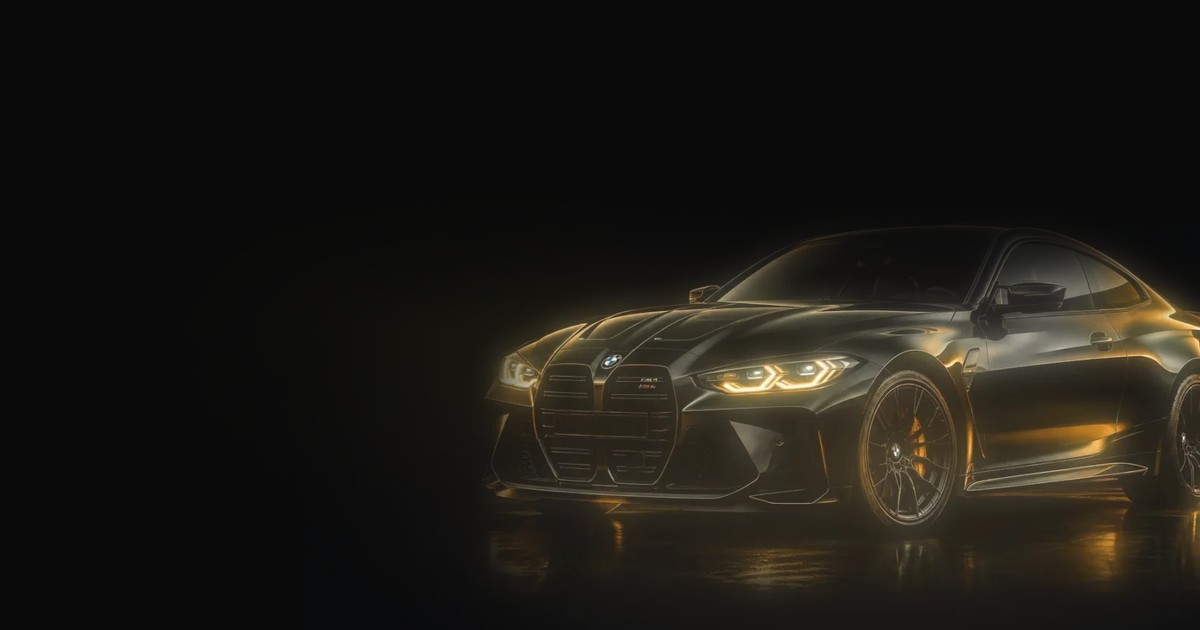
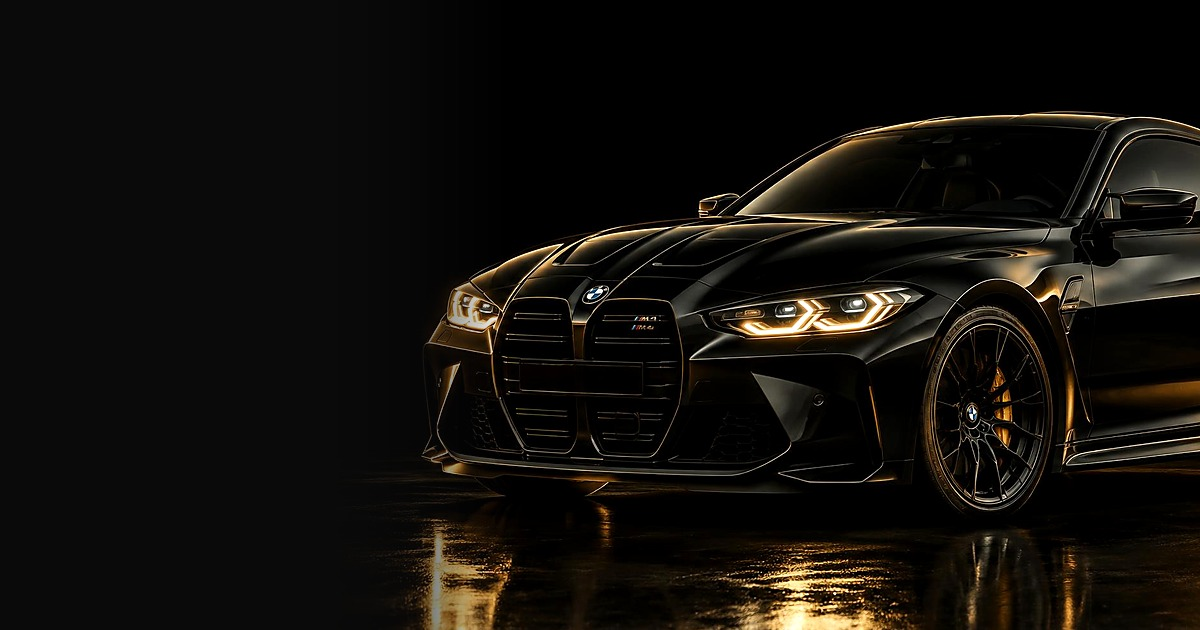
feat(seo): bolder link preview, bigger sharper car, less text
The car now fills the right two thirds at higher resolution (sharpened),
the left holds a large CAR / VISION wordmark with one small tracked
tagline line. Product previews use the same wordmark in a narrower column.
Preview URL version bumped to ?v=3 so cached previews refresh.

diff --git a/src/app/[locale]/opengraph-image.tsx b/src/app/[locale]/opengraph-image.tsx
@@ -9,16 +9,13 @@ export const contentType = 'image/png';
 
 /**
  * Link preview for Telegram, WhatsApp, Instagram, X, Facebook, LinkedIn (1200x630).
- * One cinematic car on the right, the wordmark and a short line on the left. No frames, cards or boxes.
+ * A large, sharp car fills the right, the CAR / VISION wordmark holds the left. Almost no text, no boxes.
  */
 export default async function OpengraphImage({ params }: { params: Promise<{ locale: string }> }) {
   const { locale } = await params;
   // Satori cannot shape Arabic script, so the Arabic preview uses the English line.
   const copy = SEO_COPY[!isLocale(locale) ? DEFAULT_LOCALE : locale === 'ar' ? 'en' : locale];
   const [fonts, car] = await Promise.all([loadOgFonts(), loadOgCar()]);
-  // Long single words (Cyrillic) must still fit the left column without running into the car.
-  const longestWord = Math.max(...copy.tagline.split(/\s+/).map((w) => w.length));
-  const headlineSize = longestWord > 14 ? 42 : longestWord > 12 ? 46 : longestWord > 10 ? 50 : 54;
 
   return new ImageResponse(
     (
@@ -34,66 +31,46 @@ export default async function OpengraphImage({ params }: { params: Promise<{ loc
         }}
       >
         <img src={car} alt="" width={OG_SIZE.width} height={OG_SIZE.height} style={{ position: 'absolute', inset: 0 }} />
-        {/* Quiet the left half so the type sits on pure black, and settle the floor. */}
-        <div
-          style={{
-            position: 'absolute',
-            inset: 0,
-            display: 'flex',
-            background: 'linear-gradient(90deg, rgba(10,10,10,0.96) 0%, rgba(10,10,10,0.7) 34%, rgba(10,10,10,0) 58%)',
-          }}
-        />
-        <div
-          style={{
-            position: 'absolute',
-            inset: 0,
-            display: 'flex',
-            background: 'linear-gradient(0deg, rgba(10,10,10,0.55) 0%, rgba(10,10,10,0) 22%)',
-          }}
-        />
 
         <div
           style={{
             position: 'absolute',
-            left: 84,
-            top: 80,
-            bottom: 80,
-            width: 470,
+            left: 76,
+            top: 0,
+            bottom: 0,
+            width: 380,
             display: 'flex',
             flexDirection: 'column',
-            justifyContent: 'space-between',
+            justifyContent: 'center',
           }}
         >
-          <div style={{ display: 'flex', fontSize: 40, fontWeight: 700, letterSpacing: -1 }}>
-            <span>Car</span>
-            <span style={{ color: OG_COLORS.accent }}>Vision</span>
+          <div style={{ display: 'flex', fontSize: 96, fontWeight: 700, lineHeight: 0.92, letterSpacing: -2 }}>CAR</div>
+          <div
+            style={{
+              display: 'flex',
+              fontSize: 96,
+              fontWeight: 700,
+              lineHeight: 0.92,
+              letterSpacing: -2,
+              color: OG_COLORS.accent,
+            }}
+          >
+            VISION
           </div>
-
-          <div style={{ display: 'flex', flexDirection: 'column' }}>
-            <div style={{ width: 48, height: 3, background: OG_COLORS.accent, marginBottom: 30 }} />
-            <div
-              style={{
-                display: 'flex',
-                fontSize: headlineSize,
-                fontWeight: 700,
-                lineHeight: 1.12,
-                letterSpacing: -1.5,
-              }}
-            >
-              {copy.tagline}
-            </div>
-            <div
-              style={{
-                display: 'flex',
-                marginTop: 26,
-                fontSize: 24,
-                fontWeight: 500,
-                color: OG_COLORS.muted,
-                letterSpacing: 0.5,
-              }}
-            >
-              {copy.ogSubline}
-            </div>
+          <div style={{ width: 56, height: 2, background: OG_COLORS.accent, marginTop: 40, marginBottom: 22 }} />
+          <div
+            style={{
+              display: 'flex',
+              fontSize: 17,
+              fontWeight: 500,
+              lineHeight: 1.6,
+              letterSpacing: 4,
+              textTransform: 'uppercase',
+              color: OG_COLORS.muted,
+              width: 330,
+            }}
+          >
+            {copy.tagline}
           </div>
         </div>
       </div>

diff --git a/src/app/[locale]/(app)/shop/[id]/opengraph-image.tsx b/src/app/[locale]/(app)/shop/[id]/opengraph-image.tsx
@@ -58,18 +58,18 @@ export default async function ProductOpengraphImage({ params }: { params: Promis
         <div
           style={{
             position: 'absolute',
-            left: 84,
+            left: 76,
             top: 80,
             bottom: 80,
-            width: 470,
+            width: 340,
             display: 'flex',
             flexDirection: 'column',
             justifyContent: 'space-between',
           }}
         >
-          <div style={{ display: 'flex', fontSize: 40, fontWeight: 700, letterSpacing: -1 }}>
-            <span>Car</span>
-            <span style={{ color: OG_COLORS.accent }}>Vision</span>
+          <div style={{ display: 'flex', fontSize: 36, fontWeight: 700, letterSpacing: -0.5 }}>
+            <span>CAR</span>
+            <span style={{ color: OG_COLORS.accent }}>VISION</span>
           </div>
           <div style={{ display: 'flex', flexDirection: 'column' }}>
             {item ? (
@@ -81,7 +81,7 @@ export default async function ProductOpengraphImage({ params }: { params: Promis
               style={{
                 display: 'flex',
                 marginTop: 14,
-                fontSize: name.length > 34 ? 42 : name.length > 22 ? 48 : 56,
+                fontSize: name.length > 34 ? 32 : name.length > 22 ? 38 : 46,
                 fontWeight: 700,
                 lineHeight: 1.1,
                 letterSpacing: -1.5,

diff --git a/src/lib/seo/site.ts b/src/lib/seo/site.ts
@@ -18,7 +18,7 @@ export const SITE_URL = resolveSiteUrl().replace(/\/+$/, '');
  * Bump when the link-preview design changes: Telegram, WhatsApp and Facebook cache previews by image URL,
  * so a new query string makes them fetch the new picture.
  */
-export const OG_IMAGE_VERSION = '2';
+export const OG_IMAGE_VERSION = '3';
 
 /** The brand link-preview image for a locale (rendered by app/[locale]/opengraph-image.tsx). */
 export function brandOgImagePath(locale: Locale): string {
